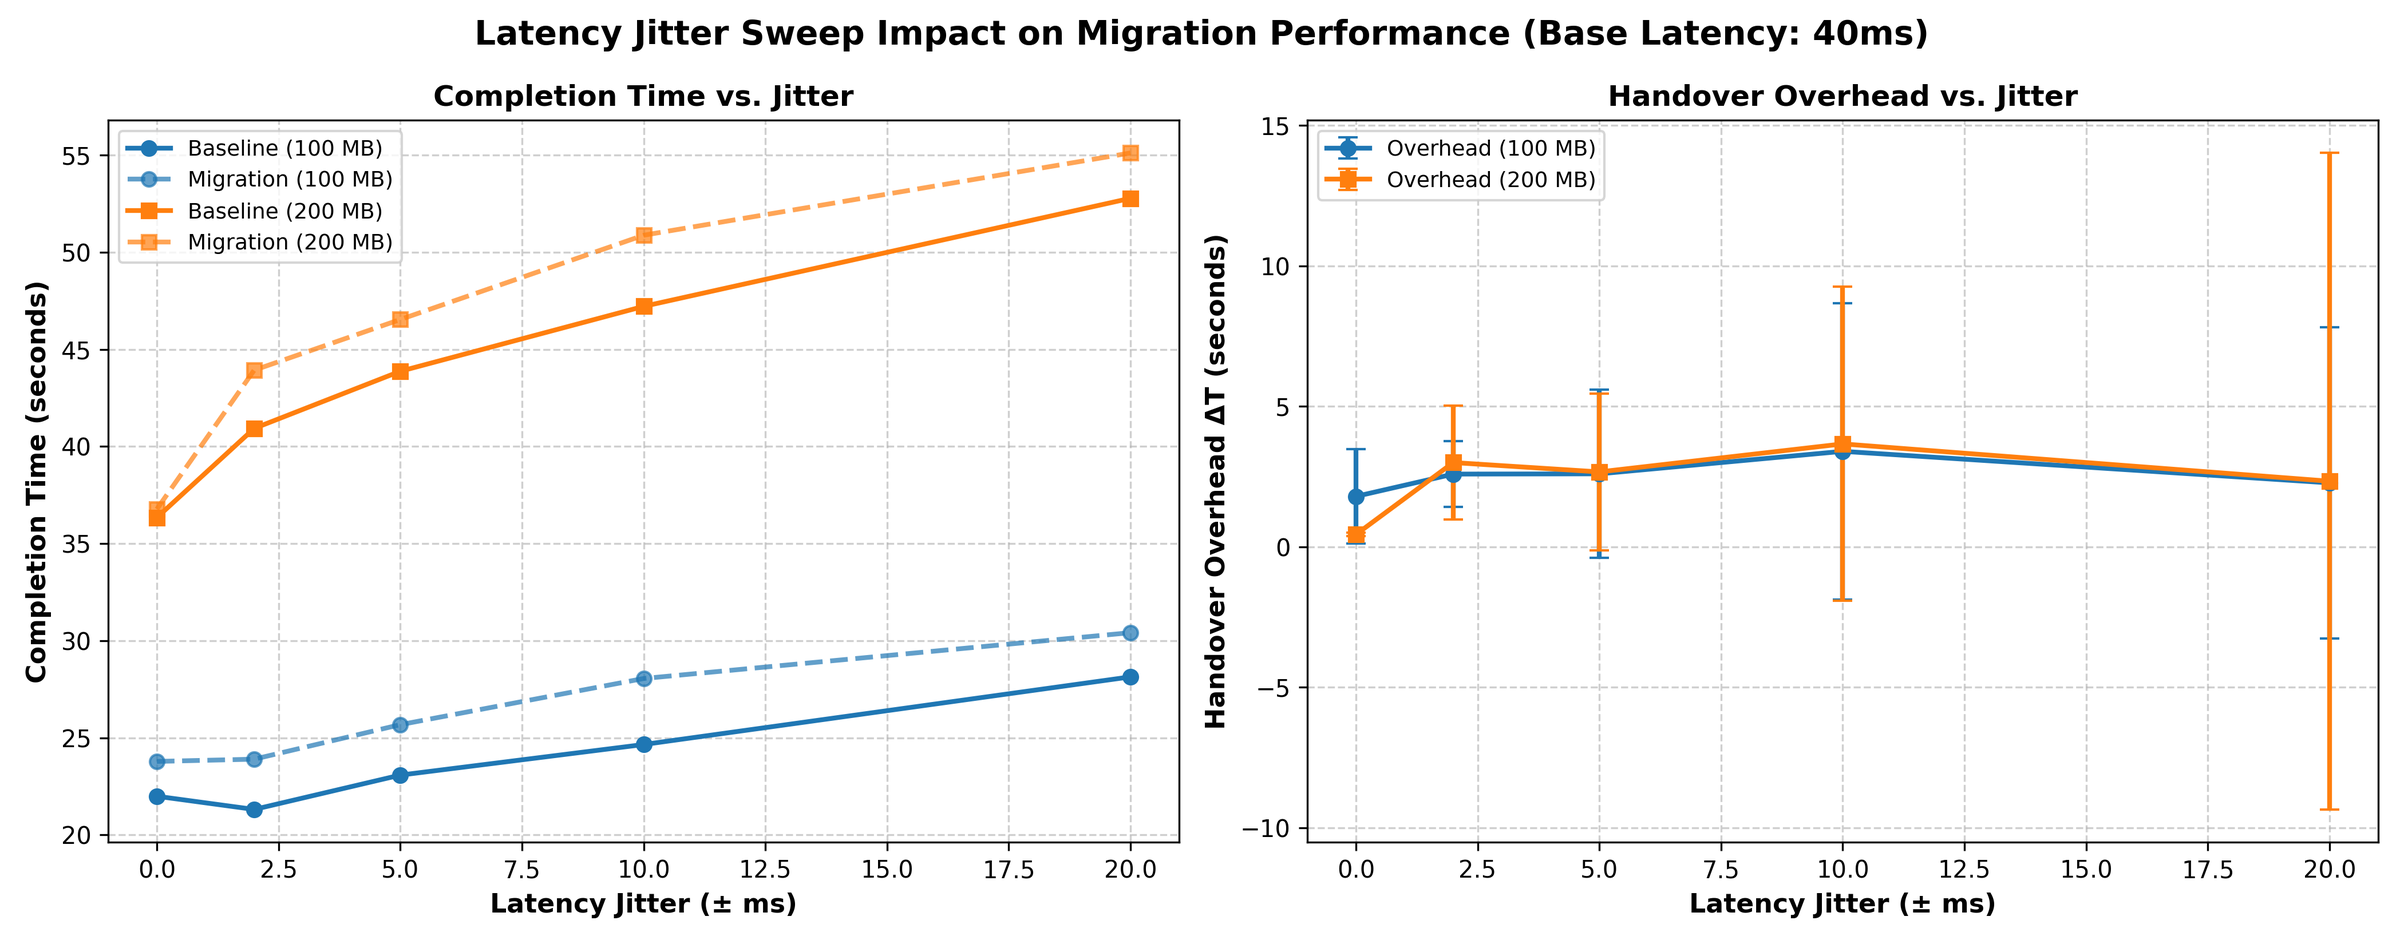
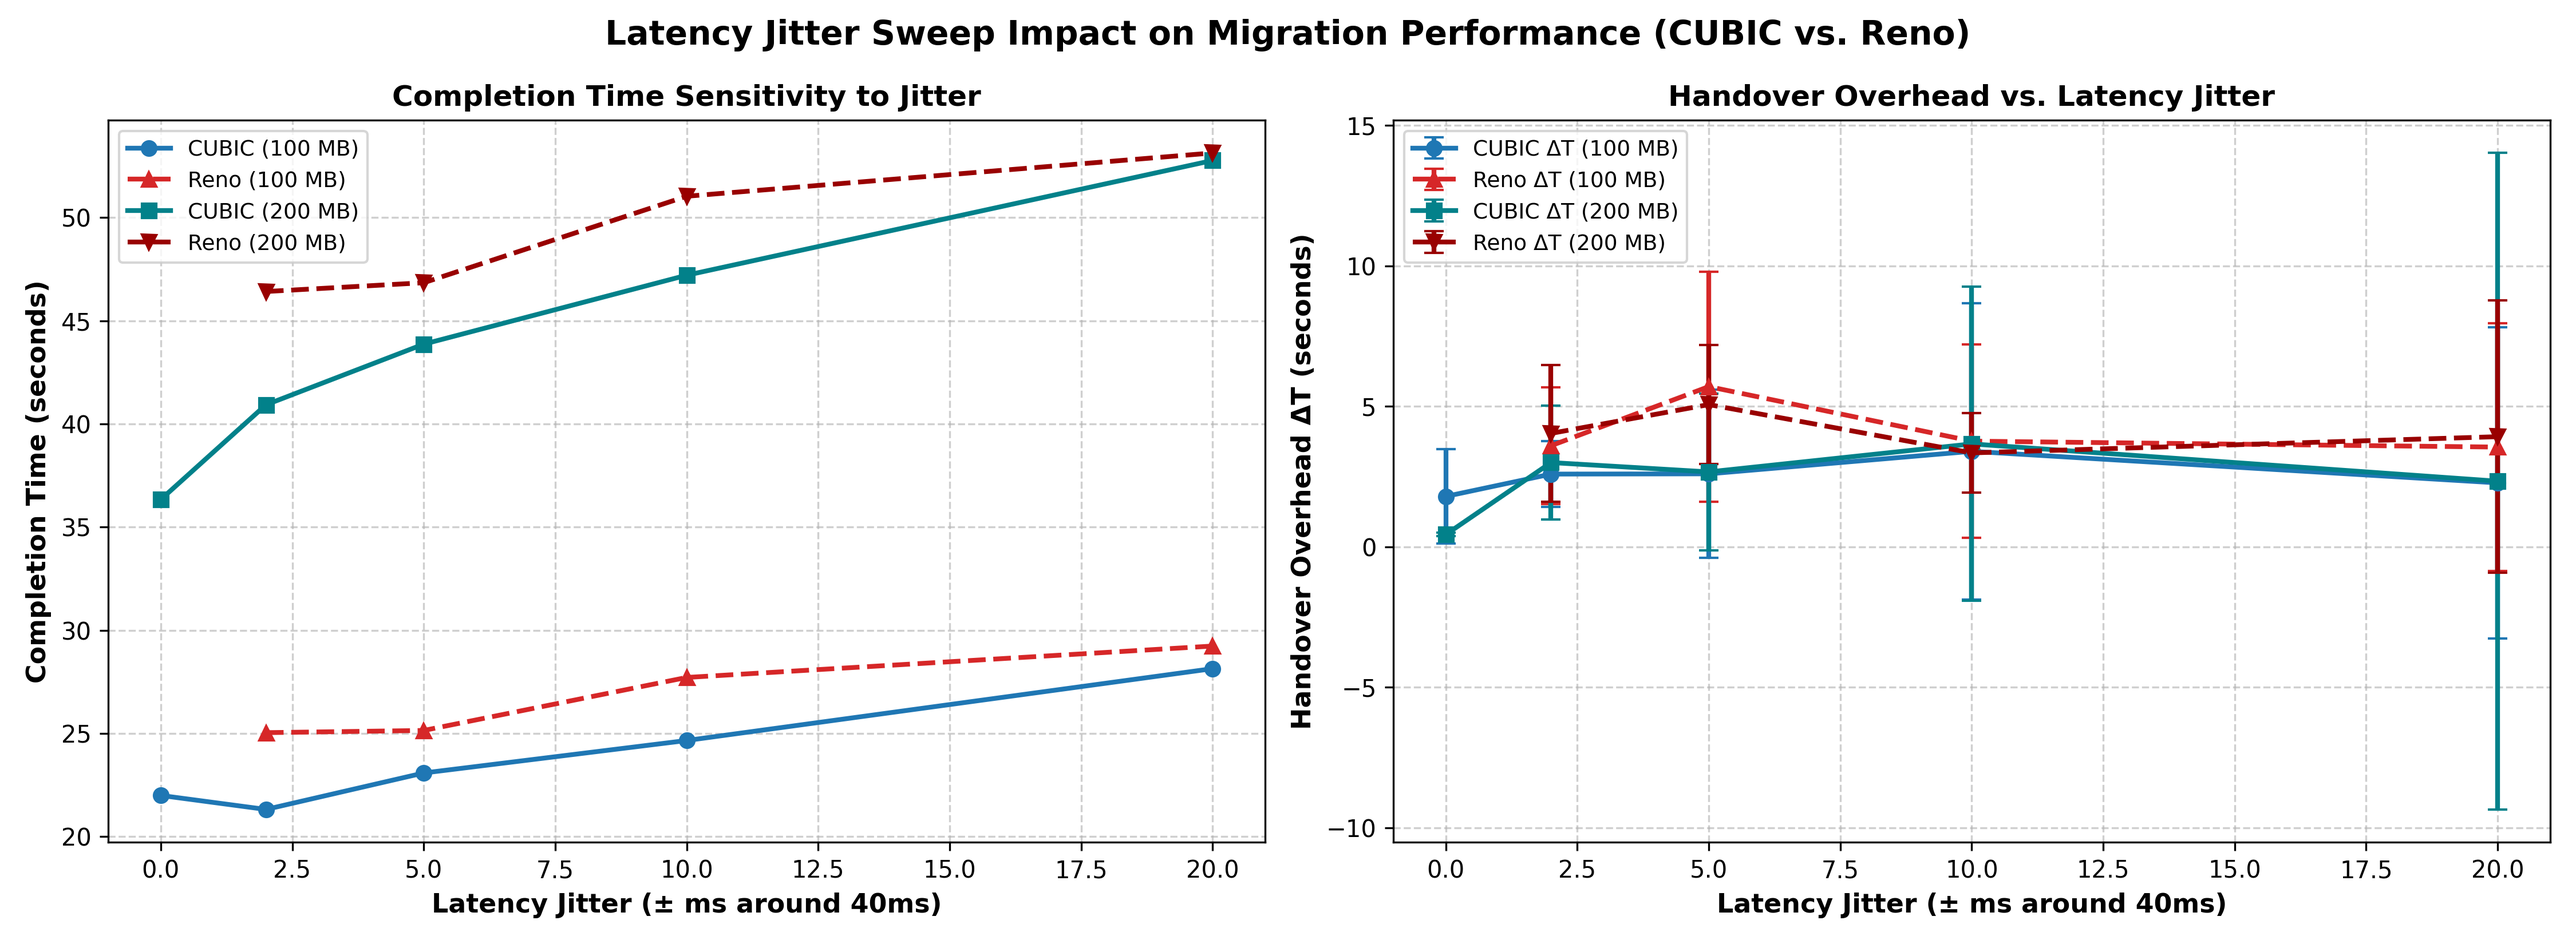
MORE POLOTS

diff --git a/NEW EXPERIMENTS/MANUAL_ANALYSIS/plot_results.py b/NEW EXPERIMENTS/MANUAL_ANALYSIS/plot_results.py
@@ -4,15 +4,15 @@ plot_results.py
 
 Standalone visualization script for experiment results.
 Reads statistical CSV tables from the ./RESULTS directory and generates
-high-resolution publication-quality plots.
+high-resolution publication-quality plots comparing TCP CUBIC and TCP Reno.
 
 Generated figures:
   1. plot_transfer_time.png       - Baseline: Completion time scaling (CUBIC vs Reno)
   2. plot_handover_overhead.png   - Baseline: Invariant handover overhead (Delta T)
   3. plot_relative_decay.png      - Baseline: Hyperbolic relative overhead penalty decay (rho)
-  4. plot_latency_sweep.png       - Latency Sweep: Completion time & overhead vs RTT latency
-  5. plot_loss_sweep.png          - Loss Sweep: Completion time & effective goodput vs packet loss
-  6. plot_jitter_sweep.png        - Jitter Sweep: Completion time & overhead vs delay jitter
+  4. plot_latency_sweep.png       - Latency Sweep: Completion time & overhead vs RTT latency (CUBIC vs Reno)
+  5. plot_loss_sweep.png          - Loss Sweep: Completion time & effective goodput vs packet loss (CUBIC vs Reno)
+  6. plot_jitter_sweep.png        - Jitter Sweep: Completion time & overhead vs delay jitter (CUBIC vs Reno)
 """
 
 import os
@@ -69,20 +69,21 @@ def parse_parameter_val(val_str):
     return float(clean) if clean else 0.0
 
 
-def load_sweep_series(results_dir, sweep_type):
+def load_sweep_series(results_dir, sweep_type, cca="cubic"):
     """
-    Finds and parses all 'cubic_{sweep_type}_*_all_results.csv' files in results_dir.
+    Finds and parses all '{cca}_{sweep_type}_*_all_results.csv' files in results_dir.
 
     Parameters:
         results_dir (str): Directory containing the CSV tables.
         sweep_type (str): 'latency', 'loss', or 'jitter'.
+        cca (str): 'cubic' or 'reno'.
 
     Returns:
         dict: Mapping file_size_mb (e.g., 100, 200) -> list of dicts:
               [{'param_str': '10ms', 'param_val': 10.0, 'metrics': {...}}, ...]
               sorted by param_val ascending.
     """
-    pattern = os.path.join(results_dir, f"cubic_{sweep_type}_*_all_results.csv")
+    pattern = os.path.join(results_dir, f"{cca}_{sweep_type}_*_all_results.csv")
     csv_files = glob.glob(pattern)
     if not csv_files:
         return {}
@@ -91,8 +92,7 @@ def load_sweep_series(results_dir, sweep_type):
 
     for filepath in csv_files:
         filename = os.path.basename(filepath)
-        # Match pattern: cubic_{sweep_type}_{param_str}_all_results.csv
-        prefix = f"cubic_{sweep_type}_"
+        prefix = f"{cca}_{sweep_type}_"
         suffix = "_all_results.csv"
         if not (filename.startswith(prefix) and filename.endswith(suffix)):
             continue
@@ -266,160 +266,207 @@ def plot_relative_decay(cubic_data, reno_data, output_file):
 
 
 # ==============================================================================
-# PARAMETRIC SWEEPS PLOTTING FUNCTIONS
+# PARAMETRIC SWEEPS PLOTTING FUNCTIONS (CUBIC vs RENO)
 # ==============================================================================
 
-def plot_latency_sweep(sweep_data, output_file):
+def plot_latency_sweep(cubic_data, reno_data, output_file):
     """
-    Plots Latency Sweep:
-    - Panel 1: Transfer Completion Time vs. One-Way Latency for 100 MB and 200 MB.
-    - Panel 2: Handover Overhead vs. One-Way Latency (Mean ± Std).
+    Plots Latency Sweep (CUBIC vs Reno):
+    - Panel 1: Completion Time vs. Network Latency for 100 MB and 200 MB.
+    - Panel 2: Handover Overhead (Delta T) vs. Network Latency.
     """
-    if not sweep_data:
+    if not cubic_data and not reno_data:
         print("Skipping plot_latency_sweep: No latency sweep data found.")
         return
 
-    fig, (ax1, ax2) = plt.subplots(1, 2, figsize=(14, 5.5), dpi=300)
-    colors = {100: "#1f77b4", 200: "#ff7f0e", 50: "#2ca02c"}
-    markers = {100: "o", 200: "s", 50: "^"}
+    fig, (ax1, ax2) = plt.subplots(1, 2, figsize=(15, 5.5), dpi=300)
 
-    for fs in sorted(sweep_data.keys()):
-        series = sweep_data[fs]
-        lats = [x["param_val"] for x in series]
-        b_means = [x["metrics"]["direct_mean"] for x in series]
-        m_means = [x["metrics"]["migrate_mean"] for x in series]
-        o_means = [x["metrics"]["diff_mean"] for x in series]
-        o_stds = [x["metrics"]["diff_std"] for x in series]
+    # Visual palettes
+    # CUBIC: Blue/Teal tones | Reno: Red/Crimson tones
+    colors_cubic = {100: "#1f77b4", 200: "#02818a"}
+    colors_reno = {100: "#d62728", 200: "#990000"}
+    markers_cubic = {100: "o", 200: "s"}
+    markers_reno = {100: "^", 200: "v"}
 
-        c = colors.get(fs, "#333333")
-        m = markers.get(fs, "o")
+    # Common payload sizes
+    all_sizes = sorted(set(list(cubic_data.keys()) + list(reno_data.keys() if reno_data else [])))
 
-        # Panel 1: Completion Time
-        ax1.plot(lats, b_means, f"-{m}", color=c, linewidth=2, label=f"Baseline ({fs} MB)")
-        ax1.plot(lats, m_means, f"--{m}", color=c, linewidth=2, alpha=0.7, label=f"Migration ({fs} MB)")
+    for fs in all_sizes:
+        # Plot CUBIC series
+        if cubic_data and fs in cubic_data:
+            series_c = cubic_data[fs]
+            lats_c = [x["param_val"] for x in series_c]
+            b_c = [x["metrics"]["direct_mean"] for x in series_c]
+            o_c = [x["metrics"]["diff_mean"] for x in series_c]
+            o_c_std = [x["metrics"]["diff_std"] for x in series_c]
 
-        # Panel 2: Overhead
-        ax2.errorbar(lats, o_means, yerr=o_stds, fmt=f"-{m}", color=c, linewidth=2, capsize=4, label=f"Overhead ({fs} MB)")
+            c_color = colors_cubic.get(fs, "#1f77b4")
+            m_c = markers_cubic.get(fs, "o")
 
-    ax1.set_title("Completion Time vs. Latency", fontsize=12, fontweight="bold")
+            ax1.plot(lats_c, b_c, f"-{m_c}", color=c_color, linewidth=2, label=f"CUBIC ({fs} MB)")
+            ax2.errorbar(lats_c, o_c, yerr=o_c_std, fmt=f"-{m_c}", color=c_color, linewidth=2, capsize=4, label=f"CUBIC ΔT ({fs} MB)")
+
+        # Plot Reno series
+        if reno_data and fs in reno_data:
+            series_r = reno_data[fs]
+            lats_r = [x["param_val"] for x in series_r]
+            b_r = [x["metrics"]["direct_mean"] for x in series_r]
+            o_r = [x["metrics"]["diff_mean"] for x in series_r]
+            o_r_std = [x["metrics"]["diff_std"] for x in series_r]
+
+            r_color = colors_reno.get(fs, "#d62728")
+            m_r = markers_reno.get(fs, "^")
+
+            ax1.plot(lats_r, b_r, f"--{m_r}", color=r_color, linewidth=2, label=f"Reno ({fs} MB)")
+            ax2.errorbar(lats_r, o_r, yerr=o_r_std, fmt=f"--{m_r}", color=r_color, linewidth=2, capsize=4, label=f"Reno ΔT ({fs} MB)")
+
+    ax1.set_title("Completion Time: CUBIC vs. Reno Scaling", fontsize=12, fontweight="bold")
     ax1.set_xlabel("One-Way Latency (ms)", fontsize=11, fontweight="semibold")
     ax1.set_ylabel("Completion Time (seconds)", fontsize=11, fontweight="semibold")
     ax1.grid(True, linestyle="--", alpha=0.6)
     ax1.legend(frameon=True, fontsize=9)
 
-    ax2.set_title("Handover Overhead vs. Latency", fontsize=12, fontweight="bold")
+    ax2.set_title("Handover Overhead Scaling with Latency", fontsize=12, fontweight="bold")
     ax2.set_xlabel("One-Way Latency (ms)", fontsize=11, fontweight="semibold")
     ax2.set_ylabel("Handover Overhead ΔT (seconds)", fontsize=11, fontweight="semibold")
     ax2.grid(True, linestyle="--", alpha=0.6)
     ax2.legend(frameon=True, fontsize=9)
 
-    plt.suptitle("Latency Sweep Impact on Migration Performance (TCP CUBIC)", fontsize=14, fontweight="bold", y=0.98)
+    title_suffix = " (CUBIC vs. Reno)" if reno_data else " (TCP CUBIC)"
+    plt.suptitle(f"Latency Sweep Impact on Migration Performance{title_suffix}", fontsize=14, fontweight="bold", y=0.98)
     plt.tight_layout()
     plt.savefig(output_file)
     plt.close()
     print(f"Saved: {output_file}")
 
 
-def plot_loss_sweep(sweep_data, output_file):
+def plot_loss_sweep(cubic_data, reno_data, output_file):
     """
-    Plots Packet Loss Sweep:
-    - Panel 1: Transfer Completion Time vs. Packet Loss Rate.
-    - Panel 2: Effective Goodput (Mbit/s = File_Size_bits / Time_sec) vs. Packet Loss Rate.
+    Plots Packet Loss Sweep (CUBIC vs Reno):
+    - Panel 1: Completion Time vs. Packet Loss Rate (Log scale for explosion).
+    - Panel 2: Effective Goodput (Mbit/s) vs. Packet Loss Rate (Goodput collapse).
     """
-    if not sweep_data:
+    if not cubic_data and not reno_data:
         print("Skipping plot_loss_sweep: No loss sweep data found.")
         return
 
-    fig, (ax1, ax2) = plt.subplots(1, 2, figsize=(14, 5.5), dpi=300)
-    colors = {100: "#1f77b4", 200: "#ff7f0e", 50: "#2ca02c"}
-    markers = {100: "o", 200: "s", 50: "^"}
+    fig, (ax1, ax2) = plt.subplots(1, 2, figsize=(15, 5.5), dpi=300)
 
-    for fs in sorted(sweep_data.keys()):
-        series = sweep_data[fs]
-        losses = [x["param_val"] for x in series]
-        b_means = [x["metrics"]["direct_mean"] for x in series]
-        m_means = [x["metrics"]["migrate_mean"] for x in series]
+    colors_cubic = {100: "#1f77b4", 200: "#02818a"}
+    colors_reno = {100: "#d62728", 200: "#990000"}
+    markers_cubic = {100: "o", 200: "s"}
+    markers_reno = {100: "^", 200: "v"}
 
-        # Calculate effective goodput in Mbit/s
+    all_sizes = sorted(set(list(cubic_data.keys()) + list(reno_data.keys() if reno_data else [])))
+
+    for fs in all_sizes:
         file_bits = fs * 8.0
-        gp_base = [(file_bits / t) if t > 0 else 0 for t in b_means]
-        gp_migr = [(file_bits / t) if t > 0 else 0 for t in m_means]
 
-        c = colors.get(fs, "#333333")
-        m = markers.get(fs, "o")
+        if cubic_data and fs in cubic_data:
+            series_c = cubic_data[fs]
+            losses_c = [x["param_val"] for x in series_c]
+            b_c = [x["metrics"]["direct_mean"] for x in series_c]
+            gp_c = [(file_bits / t) if t > 0 else 0 for t in b_c]
 
-        # Panel 1: Completion Time
-        ax1.plot(losses, b_means, f"-{m}", color=c, linewidth=2, label=f"Baseline ({fs} MB)")
-        ax1.plot(losses, m_means, f"--{m}", color=c, linewidth=2, alpha=0.7, label=f"Migration ({fs} MB)")
+            c_color = colors_cubic.get(fs, "#1f77b4")
+            m_c = markers_cubic.get(fs, "o")
 
-        # Panel 2: Goodput
-        ax2.plot(losses, gp_base, f"-{m}", color=c, linewidth=2, label=f"Baseline Goodput ({fs} MB)")
-        ax2.plot(losses, gp_migr, f"--{m}", color=c, linewidth=2, alpha=0.7, label=f"Migration Goodput ({fs} MB)")
+            ax1.plot(losses_c, b_c, f"-{m_c}", color=c_color, linewidth=2, label=f"CUBIC ({fs} MB)")
+            ax2.plot(losses_c, gp_c, f"-{m_c}", color=c_color, linewidth=2, label=f"CUBIC Goodput ({fs} MB)")
 
-    ax1.set_title("Completion Time vs. Packet Loss", fontsize=12, fontweight="bold")
+        if reno_data and fs in reno_data:
+            series_r = reno_data[fs]
+            losses_r = [x["param_val"] for x in series_r]
+            b_r = [x["metrics"]["direct_mean"] for x in series_r]
+            gp_r = [(file_bits / t) if t > 0 else 0 for t in b_r]
+
+            r_color = colors_reno.get(fs, "#d62728")
+            m_r = markers_reno.get(fs, "^")
+
+            ax1.plot(losses_r, b_r, f"--{m_r}", color=r_color, linewidth=2, label=f"Reno ({fs} MB)")
+            ax2.plot(losses_r, gp_r, f"--{m_r}", color=r_color, linewidth=2, label=f"Reno Goodput ({fs} MB)")
+
+    ax1.set_title("Completion Time Explosion under Packet Loss", fontsize=12, fontweight="bold")
     ax1.set_xlabel("Packet Loss Rate (%)", fontsize=11, fontweight="semibold")
-    ax1.set_ylabel("Completion Time (seconds)", fontsize=11, fontweight="semibold")
-    ax1.grid(True, linestyle="--", alpha=0.6)
+    ax1.set_ylabel("Completion Time (seconds) [Log Scale]", fontsize=11, fontweight="semibold")
+    ax1.set_yscale("log")
+    ax1.grid(True, which="both", linestyle="--", alpha=0.5)
     ax1.legend(frameon=True, fontsize=9)
 
-    ax2.set_title("Effective Goodput Degradation", fontsize=12, fontweight="bold")
+    ax2.set_title("Effective Goodput Collapse under Loss", fontsize=12, fontweight="bold")
     ax2.set_xlabel("Packet Loss Rate (%)", fontsize=11, fontweight="semibold")
     ax2.set_ylabel("Effective Goodput (Mbit/s)", fontsize=11, fontweight="semibold")
     ax2.grid(True, linestyle="--", alpha=0.6)
     ax2.legend(frameon=True, fontsize=9)
 
-    plt.suptitle("Packet Loss Sweep Impact on Migration Performance (TCP CUBIC)", fontsize=14, fontweight="bold", y=0.98)
+    title_suffix = " (CUBIC vs. Reno)" if reno_data else " (TCP CUBIC)"
+    plt.suptitle(f"Packet Loss Sweep Impact on Migration Performance{title_suffix}", fontsize=14, fontweight="bold", y=0.98)
     plt.tight_layout()
     plt.savefig(output_file)
     plt.close()
     print(f"Saved: {output_file}")
 
 
-def plot_jitter_sweep(sweep_data, output_file):
+def plot_jitter_sweep(cubic_data, reno_data, output_file):
     """
-    Plots Latency Jitter Sweep:
+    Plots Latency Jitter Sweep (CUBIC vs Reno):
     - Panel 1: Completion Time vs. Latency Jitter for 100 MB and 200 MB.
-    - Panel 2: Handover Overhead vs. Latency Jitter (Mean ± Std).
+    - Panel 2: Handover Overhead (Delta T) vs. Latency Jitter.
     """
-    if not sweep_data:
+    if not cubic_data and not reno_data:
         print("Skipping plot_jitter_sweep: No jitter sweep data found.")
         return
 
-    fig, (ax1, ax2) = plt.subplots(1, 2, figsize=(14, 5.5), dpi=300)
-    colors = {100: "#1f77b4", 200: "#ff7f0e", 50: "#2ca02c"}
-    markers = {100: "o", 200: "s", 50: "^"}
+    fig, (ax1, ax2) = plt.subplots(1, 2, figsize=(15, 5.5), dpi=300)
 
-    for fs in sorted(sweep_data.keys()):
-        series = sweep_data[fs]
-        jitters = [x["param_val"] for x in series]
-        b_means = [x["metrics"]["direct_mean"] for x in series]
-        m_means = [x["metrics"]["migrate_mean"] for x in series]
-        o_means = [x["metrics"]["diff_mean"] for x in series]
-        o_stds = [x["metrics"]["diff_std"] for x in series]
+    colors_cubic = {100: "#1f77b4", 200: "#02818a"}
+    colors_reno = {100: "#d62728", 200: "#990000"}
+    markers_cubic = {100: "o", 200: "s"}
+    markers_reno = {100: "^", 200: "v"}
 
-        c = colors.get(fs, "#333333")
-        m = markers.get(fs, "o")
+    all_sizes = sorted(set(list(cubic_data.keys()) + list(reno_data.keys() if reno_data else [])))
 
-        # Panel 1: Completion Time
-        ax1.plot(jitters, b_means, f"-{m}", color=c, linewidth=2, label=f"Baseline ({fs} MB)")
-        ax1.plot(jitters, m_means, f"--{m}", color=c, linewidth=2, alpha=0.7, label=f"Migration ({fs} MB)")
+    for fs in all_sizes:
+        if cubic_data and fs in cubic_data:
+            series_c = cubic_data[fs]
+            jits_c = [x["param_val"] for x in series_c]
+            b_c = [x["metrics"]["direct_mean"] for x in series_c]
+            o_c = [x["metrics"]["diff_mean"] for x in series_c]
+            o_c_std = [x["metrics"]["diff_std"] for x in series_c]
 
-        # Panel 2: Overhead
-        ax2.errorbar(jitters, o_means, yerr=o_stds, fmt=f"-{m}", color=c, linewidth=2, capsize=4, label=f"Overhead ({fs} MB)")
+            c_color = colors_cubic.get(fs, "#1f77b4")
+            m_c = markers_cubic.get(fs, "o")
 
-    ax1.set_title("Completion Time vs. Jitter", fontsize=12, fontweight="bold")
-    ax1.set_xlabel("Latency Jitter (± ms)", fontsize=11, fontweight="semibold")
+            ax1.plot(jits_c, b_c, f"-{m_c}", color=c_color, linewidth=2, label=f"CUBIC ({fs} MB)")
+            ax2.errorbar(jits_c, o_c, yerr=o_c_std, fmt=f"-{m_c}", color=c_color, linewidth=2, capsize=4, label=f"CUBIC ΔT ({fs} MB)")
+
+        if reno_data and fs in reno_data:
+            series_r = reno_data[fs]
+            jits_r = [x["param_val"] for x in series_r]
+            b_r = [x["metrics"]["direct_mean"] for x in series_r]
+            o_r = [x["metrics"]["diff_mean"] for x in series_r]
+            o_r_std = [x["metrics"]["diff_std"] for x in series_r]
+
+            r_color = colors_reno.get(fs, "#d62728")
+            m_r = markers_reno.get(fs, "^")
+
+            ax1.plot(jits_r, b_r, f"--{m_r}", color=r_color, linewidth=2, label=f"Reno ({fs} MB)")
+            ax2.errorbar(jits_r, o_r, yerr=o_r_std, fmt=f"--{m_r}", color=r_color, linewidth=2, capsize=4, label=f"Reno ΔT ({fs} MB)")
+
+    ax1.set_title("Completion Time Sensitivity to Jitter", fontsize=12, fontweight="bold")
+    ax1.set_xlabel("Latency Jitter (± ms around 40ms)", fontsize=11, fontweight="semibold")
     ax1.set_ylabel("Completion Time (seconds)", fontsize=11, fontweight="semibold")
     ax1.grid(True, linestyle="--", alpha=0.6)
     ax1.legend(frameon=True, fontsize=9)
 
-    ax2.set_title("Handover Overhead vs. Jitter", fontsize=12, fontweight="bold")
-    ax2.set_xlabel("Latency Jitter (± ms)", fontsize=11, fontweight="semibold")
+    ax2.set_title("Handover Overhead vs. Latency Jitter", fontsize=12, fontweight="bold")
+    ax2.set_xlabel("Latency Jitter (± ms around 40ms)", fontsize=11, fontweight="semibold")
     ax2.set_ylabel("Handover Overhead ΔT (seconds)", fontsize=11, fontweight="semibold")
     ax2.grid(True, linestyle="--", alpha=0.6)
     ax2.legend(frameon=True, fontsize=9)
 
-    plt.suptitle("Latency Jitter Sweep Impact on Migration Performance (Base Latency: 40ms)", fontsize=14, fontweight="bold", y=0.98)
+    title_suffix = " (CUBIC vs. Reno)" if reno_data else " (TCP CUBIC)"
+    plt.suptitle(f"Latency Jitter Sweep Impact on Migration Performance{title_suffix}", fontsize=14, fontweight="bold", y=0.98)
     plt.tight_layout()
     plt.savefig(output_file)
     plt.close()
@@ -446,20 +493,25 @@ def create_all_plots(results_dir="./RESULTS", output_dir="./PLOTS"):
     cubic_data = load_baseline_results(cubic_csv)
     reno_data = load_baseline_results(reno_csv)
 
-    print("--- Generating Baseline Figures ---")
+    print("--- Generating Baseline Figures (CUBIC vs Reno) ---")
     plot_transfer_time(cubic_data, reno_data, os.path.join(output_dir, "plot_transfer_time.png"))
     plot_handover_overhead(cubic_data, reno_data, os.path.join(output_dir, "plot_handover_overhead.png"))
     plot_relative_decay(cubic_data, reno_data, os.path.join(output_dir, "plot_relative_decay.png"))
 
-    # 2. Parametric sweeps data
-    print("\n--- Generating Parametric Sweep Figures ---")
-    latency_data = load_sweep_series(results_dir, "latency")
-    loss_data = load_sweep_series(results_dir, "loss")
-    jitter_data = load_sweep_series(results_dir, "jitter")
+    # 2. Parametric sweeps data (CUBIC and Reno)
+    print("\n--- Generating Parametric Sweep Figures (CUBIC vs Reno) ---")
+    cubic_latency = load_sweep_series(results_dir, "latency", "cubic")
+    reno_latency = load_sweep_series(results_dir, "latency", "reno")
 
-    plot_latency_sweep(latency_data, os.path.join(output_dir, "plot_latency_sweep.png"))
-    plot_loss_sweep(loss_data, os.path.join(output_dir, "plot_loss_sweep.png"))
-    plot_jitter_sweep(jitter_data, os.path.join(output_dir, "plot_jitter_sweep.png"))
+    cubic_loss = load_sweep_series(results_dir, "loss", "cubic")
+    reno_loss = load_sweep_series(results_dir, "loss", "reno")
+
+    cubic_jitter = load_sweep_series(results_dir, "jitter", "cubic")
+    reno_jitter = load_sweep_series(results_dir, "jitter", "reno")
+
+    plot_latency_sweep(cubic_latency, reno_latency, os.path.join(output_dir, "plot_latency_sweep.png"))
+    plot_loss_sweep(cubic_loss, reno_loss, os.path.join(output_dir, "plot_loss_sweep.png"))
+    plot_jitter_sweep(cubic_jitter, reno_jitter, os.path.join(output_dir, "plot_jitter_sweep.png"))
 
     print("\nAll plots generated successfully!")
 
